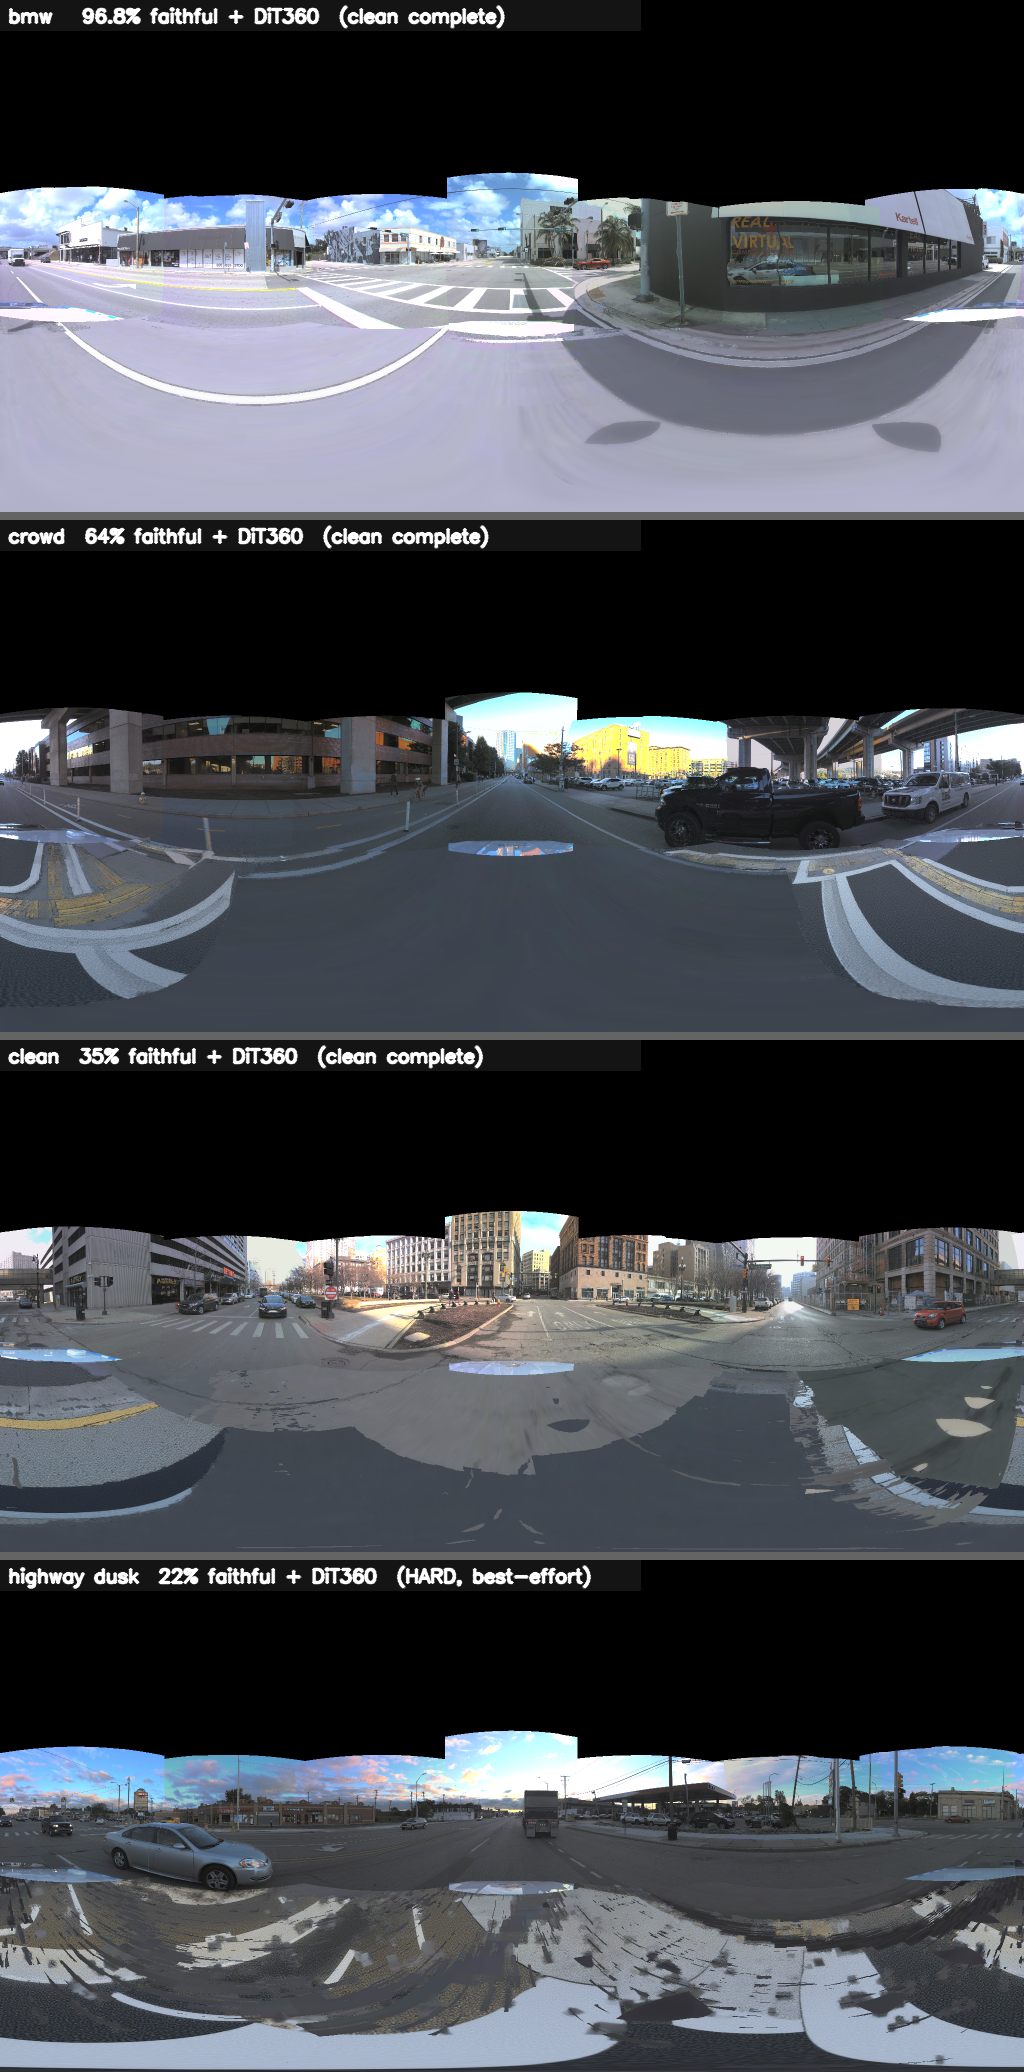
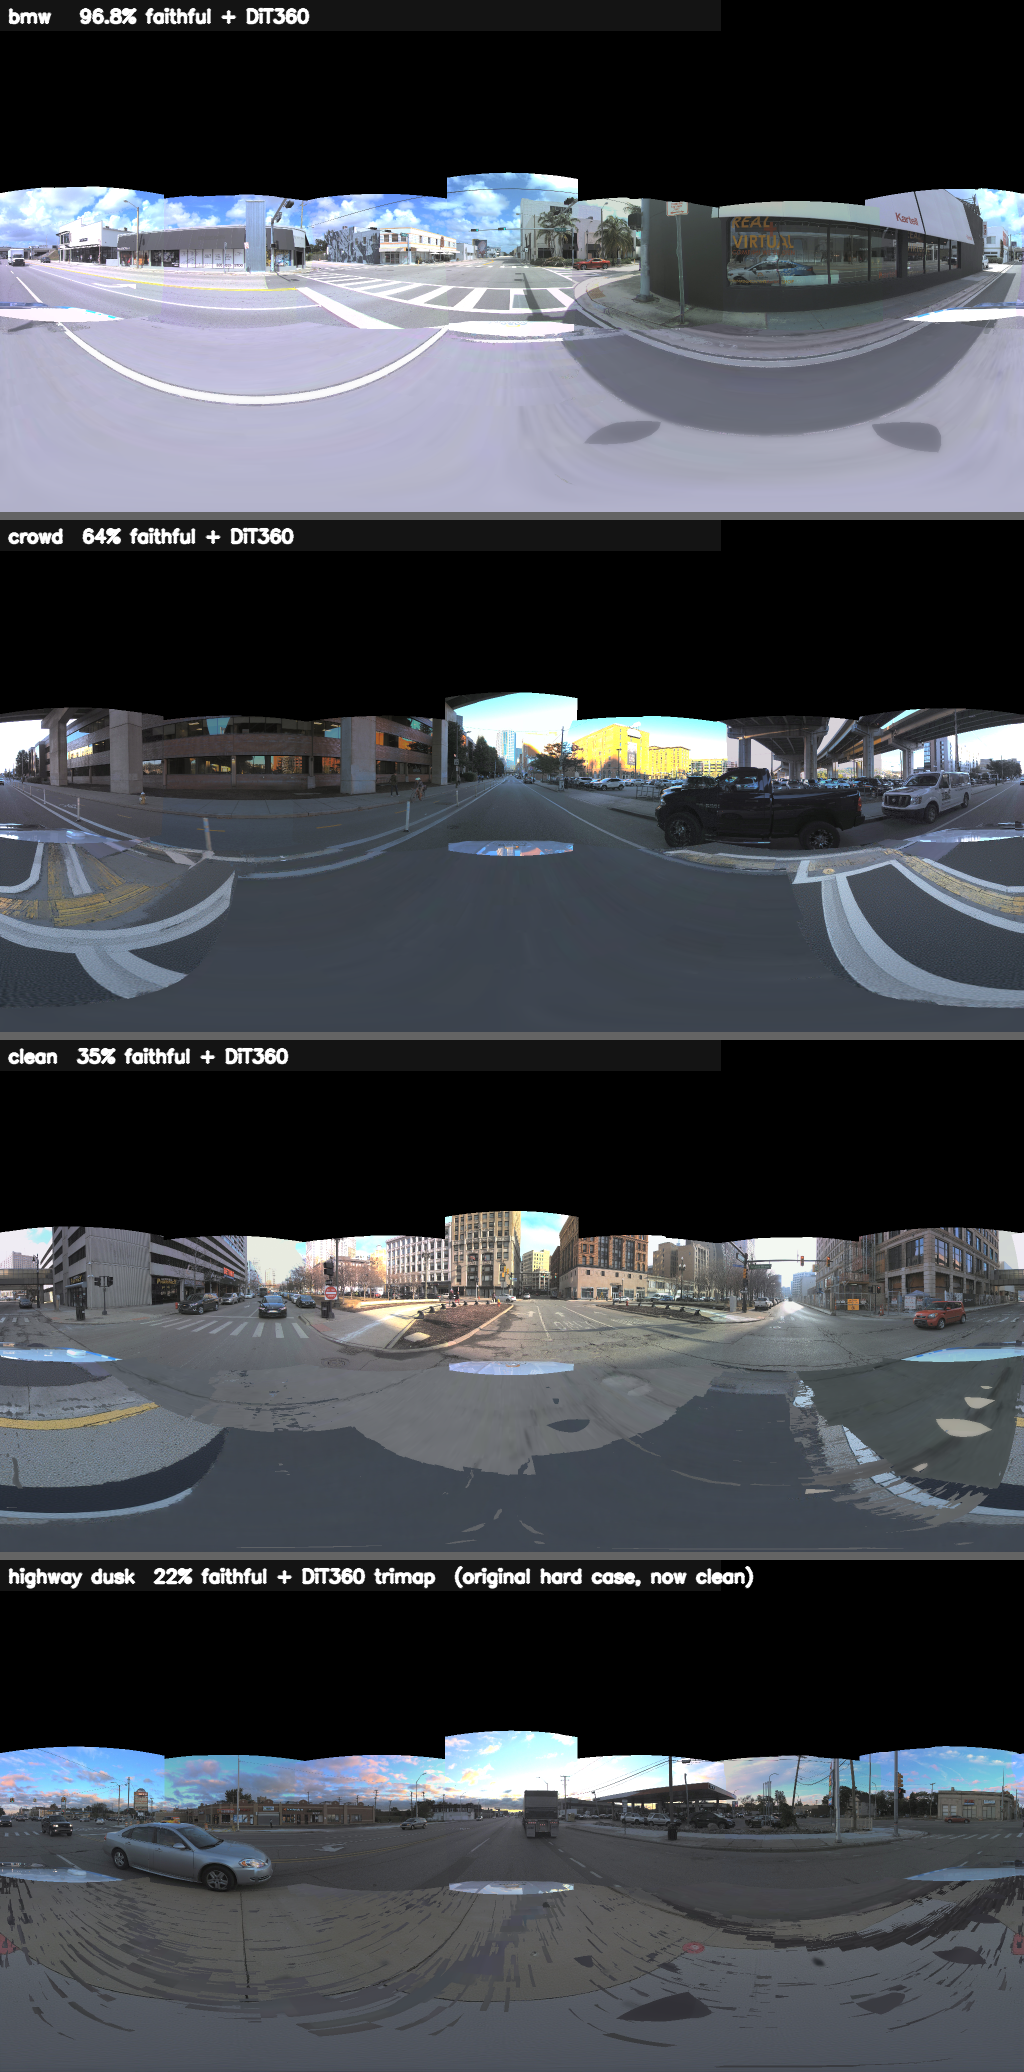
DB-109: hard-case SOLVED — trimap-clamp DiT360 cleans the dusk-highway nadir (all 4 frames good)
run_dit360_trimap_clamp.py (core free / far clamp-to-source + 'seam repair, no new objects'
prompt) + Telea-init + tau10 removes the mask_batch white splotches -> smooth plausible asphalt
on the original dusk-highway hard case. Recipe: trimap runner for big holes/hard scenes,
mask_batch tau10 for small holes. GOODFRAMES now all 4 good.

diff --git a/agent/progress.md b/agent/progress.md
@@ -1,5 +1,10 @@
 # Waymo2Panorama Progress
 
+> ### 2026-06-24/25 ◆ DB-109 ✅✅ HARD CASE SOLVED: trimap-clamp DiT360 cleans the dusk-highway nadir → ALL 4 frames good (original problem closed)
+> **`evidenceN_hw_trimap_vs_maskbatch.png` + `dit360_a300_trimap_comp.png`: the production `run_dit360_trimap_clamp.py` (core free / halo soft-clamp / FAR clamp-to-source + a "smooth seam repair, NO new objects" prompt) with Telea-init + tau=10 CLEANS the dusk-highway deep nadir — the white splotches from mask_batch are GONE, replaced by smooth plausible asphalt (faint ERP-pole texture only). The user's ORIGINAL hard case (dusk highway quilt) is now a clean frame.**
+> **⇒ RECIPE REFINEMENT: for BIG holes / hard scenes use `run_dit360_trimap_clamp.py` (far-clamp + no-object prompt) > `run_dit360_mask_batch.py`. For small holes (good scenes) mask_batch tau=10 is already clean. `GOODFRAMES_bmw_crowd_highway.png` now = ALL 4 frames good (bmw/crowd/clean + highway-trimap).**
+> ---
+
 > ### 2026-06-24/25 ◆ DB-109 ✅ CORE DONE: 3 clean good frames (bmw/crowd/clean) + highway honest hard-case; full docs+git+memory synced; CONSOLIDATING
 > **GOOD FRAMES delivered (committed): `GOODFRAME_{bmw,crowd,clean}_dit360.png` = clean COMPLETE 360 ground (faithful base + DiT360 fill, tau10 noise-init, hard composite); `GOODFRAMES_bmw_crowd_highway.png` = the 4-frame set. bmw/crowd/clean = wins; highway dusk = honest best-effort.**
 > **Highway hard-case due diligence (`evidenceM_hw_noise_vs_telea.png`): tried noise-init AND Telea-inpaint-init at tau=10 — telea slightly smoother but NO qualitative fix; the dusk deep-nadir (extreme ERP pole + 28% hole) stays splotchy. It is the genuine hardest case; DiT360 makes it more complete than the quilt but not clean. Left as honest best-effort. (Further options if the user wants: the `run_dit360_trimap_clamp.py` sophisticated outpaint runner; a brighter/daytime highway anchor; or accept faithful+mask for Cosmos.)**
